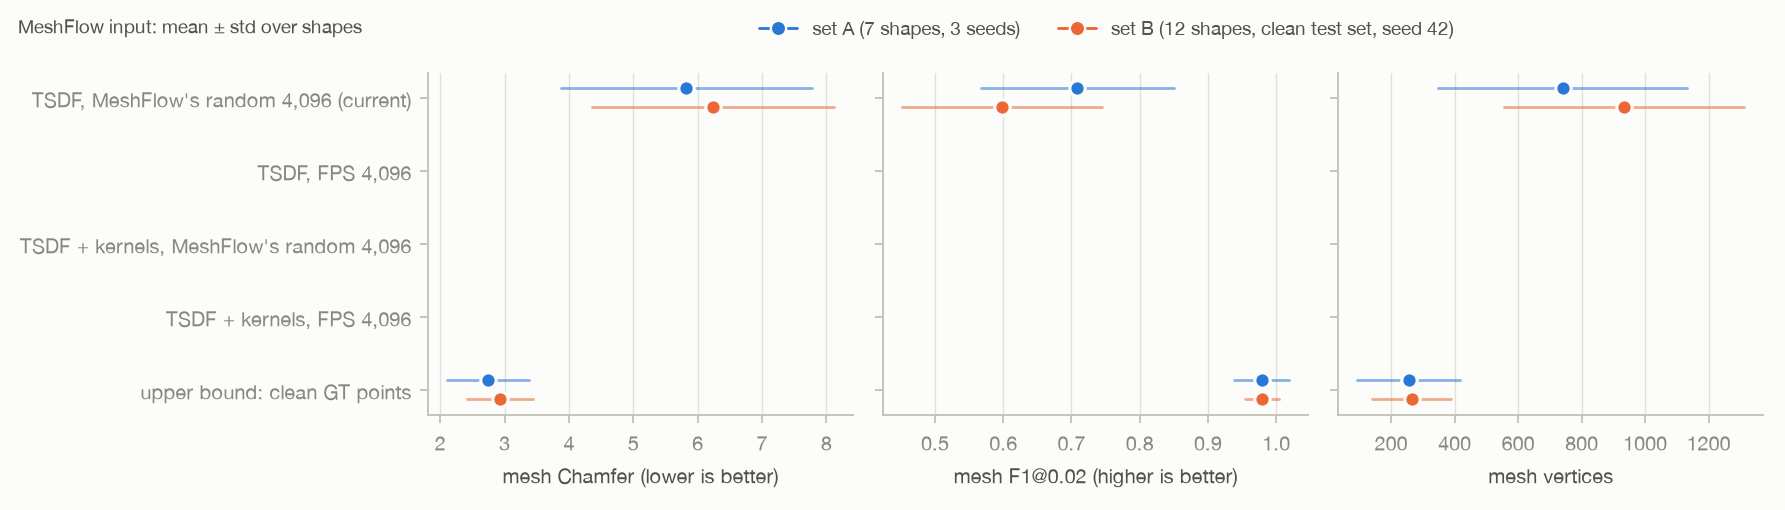
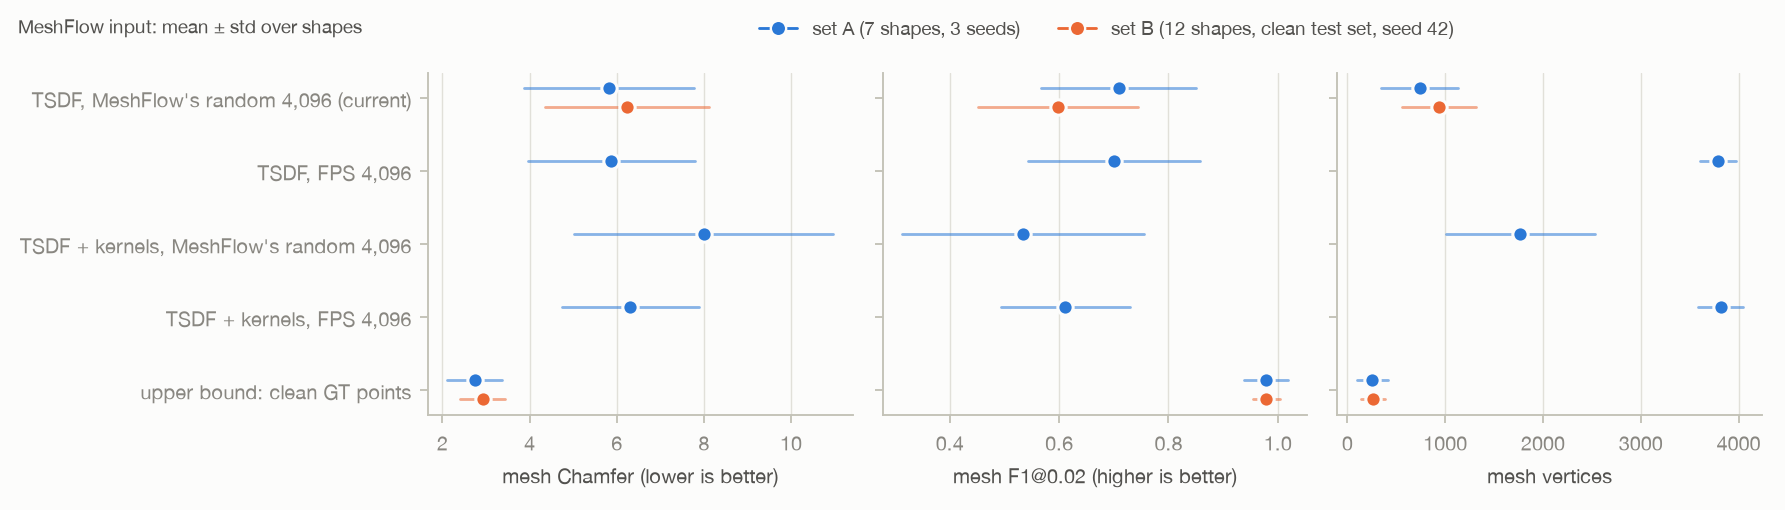
FPS input results: step 2 done (01:13)

diff --git a/docs/results/2026-11-13_fps_input.md b/docs/results/2026-11-13_fps_input.md
@@ -2,7 +2,7 @@
 
 Fahad Qaseem Khawar, 13 Nov 2026. Tables and the figure are regenerated by `scripts/fps_report.py`; the interpretation at the end is written by hand. Protocol v1 mesh metrics (`docs/eval_protocol.md`). Set A = 7 original shapes, set B = 12 new shapes (clean test set); pencilpot is the dev shape and is in no mean.
 
-Queue: 80 of 242 jobs ok.
+Queue: 122 of 242 jobs ok.
 
 **Why:** MeshFlow's network takes exactly 4,096 input points (fixed by training). Its loader normalises the cloud and keeps `torch.randperm(N)[:4096]`, a random 2% of our 200k TSDF points. Handing it exactly 4,096 points chosen by farthest-point sampling (FPS, `scripts/fps_points.py`) makes that pick a permutation, so every FPS point reaches the network. FPS spreads the points evenly over the cloud, but it also seeks out the cloud's extremes, so stray points are more likely to be kept. **Inputs** (same VGGT pass, same alignment, no rerun of points): the TSDF cloud (`_tex_v3`, 200k); the TSDF cloud plus 200k Gaussian-kernel samples (`_gsk`, opacity-weighted), a simple union of 400k points. The current random-pick rows are the existing `_tex_v3` meshes (seeds 42, 7, 123). Note that the input size changes how many random numbers the pick consumes, so the same seed gives a different generation noise across inputs; the 3 seeds on set A are what separates the input effect from that.
 
@@ -61,11 +61,11 @@ Each shape's metrics are first averaged over the 3 seeds; mean ± std over the 7
 | MeshFlow input | Chamfer | Hausdorff | NC | F1@0.01 | F1@0.02 | #V | size |
 |---|---:|---:|---:|---:|---:|---:|---:|
 | TSDF, MeshFlow's random 4,096 (current) | 5.83 ± 1.96 | 22.0 ± 9.8 | 0.809 ± 0.084 | 0.427 ± 0.113 | 0.709 ± 0.141 | 740 ± 392 | 1.07 ± 0.04 |
-| TSDF, FPS 4,096 | - | - | - | - | - | - | - |
-| TSDF + kernels, MeshFlow's random 4,096 | - | - | - | - | - | - | - |
-| TSDF + kernels, FPS 4,096 | - | - | - | - | - | - | - |
+| TSDF, FPS 4,096 | 5.88 ± 1.91 | 22.0 ± 9.9 | 0.814 ± 0.073 | 0.452 ± 0.182 | 0.701 ± 0.158 | 3,786 ± 184 | 1.07 ± 0.04 |
+| TSDF + kernels, MeshFlow's random 4,096 | 8.00 ± 2.97 | 22.6 ± 7.5 | 0.720 ± 0.093 | 0.316 ± 0.169 | 0.534 ± 0.222 | 1,770 ± 763 | 1.11 ± 0.07 |
+| TSDF + kernels, FPS 4,096 | 6.31 ± 1.57 | 29.8 ± 17.8 | 0.711 ± 0.110 | 0.352 ± 0.097 | 0.611 ± 0.118 | 3,816 ± 226 | 1.21 ± 0.22 |
 
-Paired: TSDF: FPS minus random: Chamfer +0.00666 ± 0.28 (better on 3 of 7), F1@0.02 +0.00139 ± 0.045 (better on 3 of 7), #V +2.97e+03 ± 4.2e+02 (lower on 0 of 7); TSDF + kernels: FPS minus random: Chamfer -2.93 ± 5.7 (better on 5 of 7), F1@0.02 +0.0862 ± 0.21 (better on 4 of 7), #V +1.8e+03 ± 6.5e+02 (lower on 0 of 7); TSDF + kernels FPS minus TSDF random (current): Chamfer +0.391 ± 0.56 (better on 1 of 7), F1@0.02 -0.0788 ± 0.064 (better on 1 of 7), #V +2.87e+03 ± 3.8e+02 (lower on 0 of 7).
+Paired: TSDF: FPS minus random: Chamfer +0.0521 ± 0.35 (better on 10 of 21), F1@0.02 -0.00778 ± 0.064 (better on 10 of 21), #V +3.05e+03 ± 6e+02 (lower on 0 of 21); TSDF + kernels: FPS minus random: Chamfer -1.69 ± 3.6 (better on 15 of 21), F1@0.02 +0.0769 ± 0.18 (better on 14 of 21), #V +2.05e+03 ± 8.2e+02 (lower on 0 of 21); TSDF + kernels FPS minus TSDF random (current): Chamfer +0.485 ± 0.56 (better on 4 of 21), F1@0.02 -0.0976 ± 0.088 (better on 3 of 21), #V +3.08e+03 ± 4.4e+02 (lower on 0 of 21).
 
 ![FPS input](figures/2026-11-13_fps_input.png)
 
